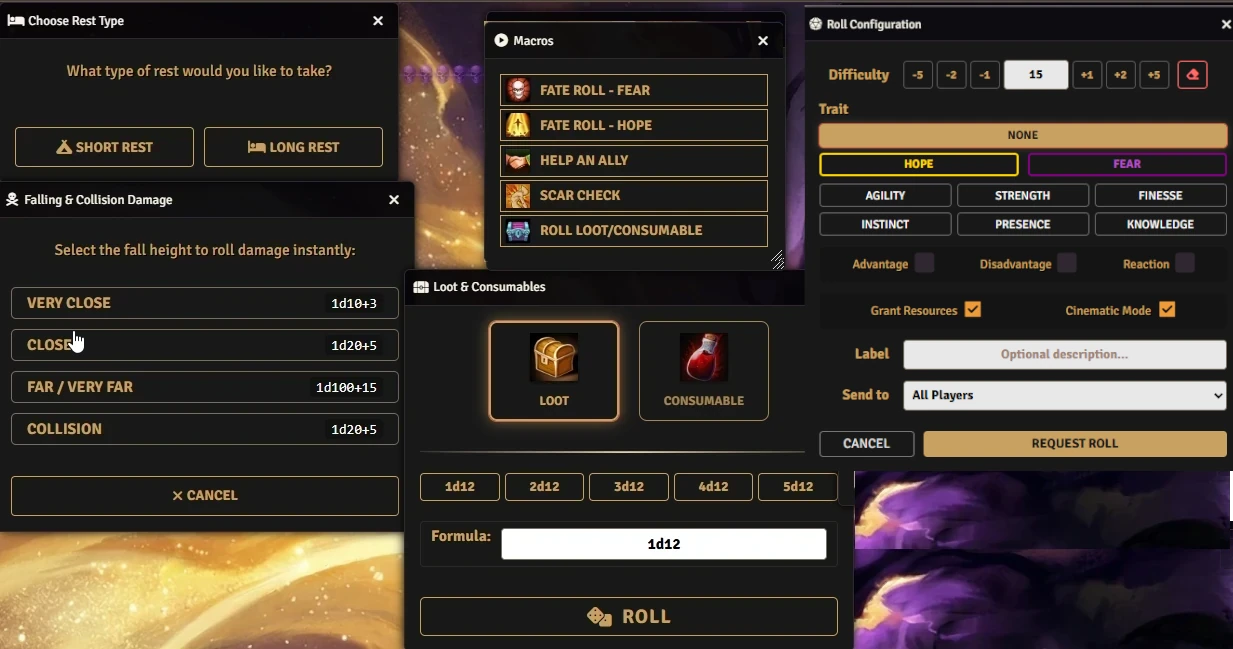
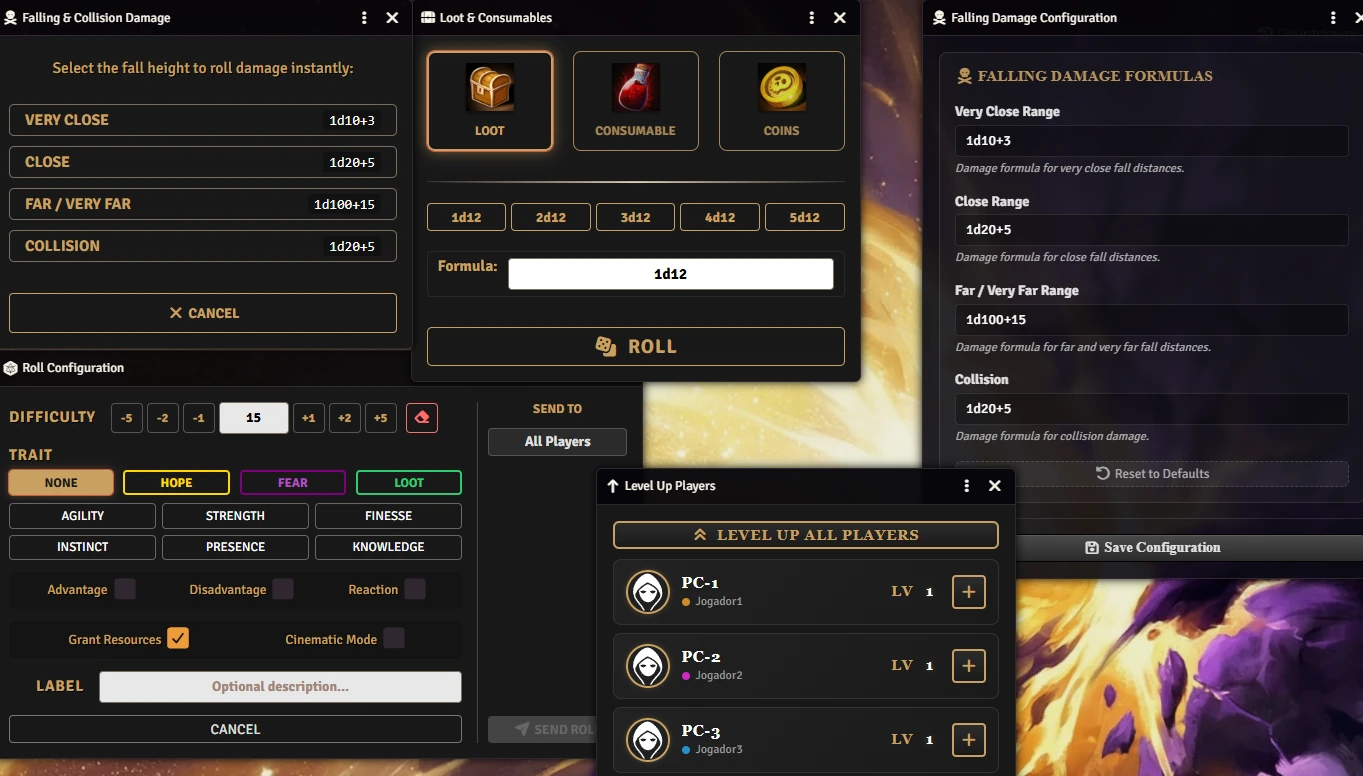
0.4.3

diff --git a/README.md b/README.md
@@ -4,9 +4,9 @@
 
 This module streamlines the flow of gameplay by providing quick access to common mechanics like Falling Damage, Downtime moves, Scar Checks, and Loot rolling, integrated directly into the Daggerheart system interface.
 
-<p align="center"><img width="900" src="docs/preview.webp" alt="Preview"></p>
+<p align="center"><img width="1000" src="docs/preview.webp" alt="Preview"></p>
 
-<p align="center"><img width="900" src="docs/downtime.webp"></p>
+<p align="center"><img width="800" src="docs/downtime.webp"></p>
 
 <p align="center"><img width="900" src="docs/feature.webp"></p>
 